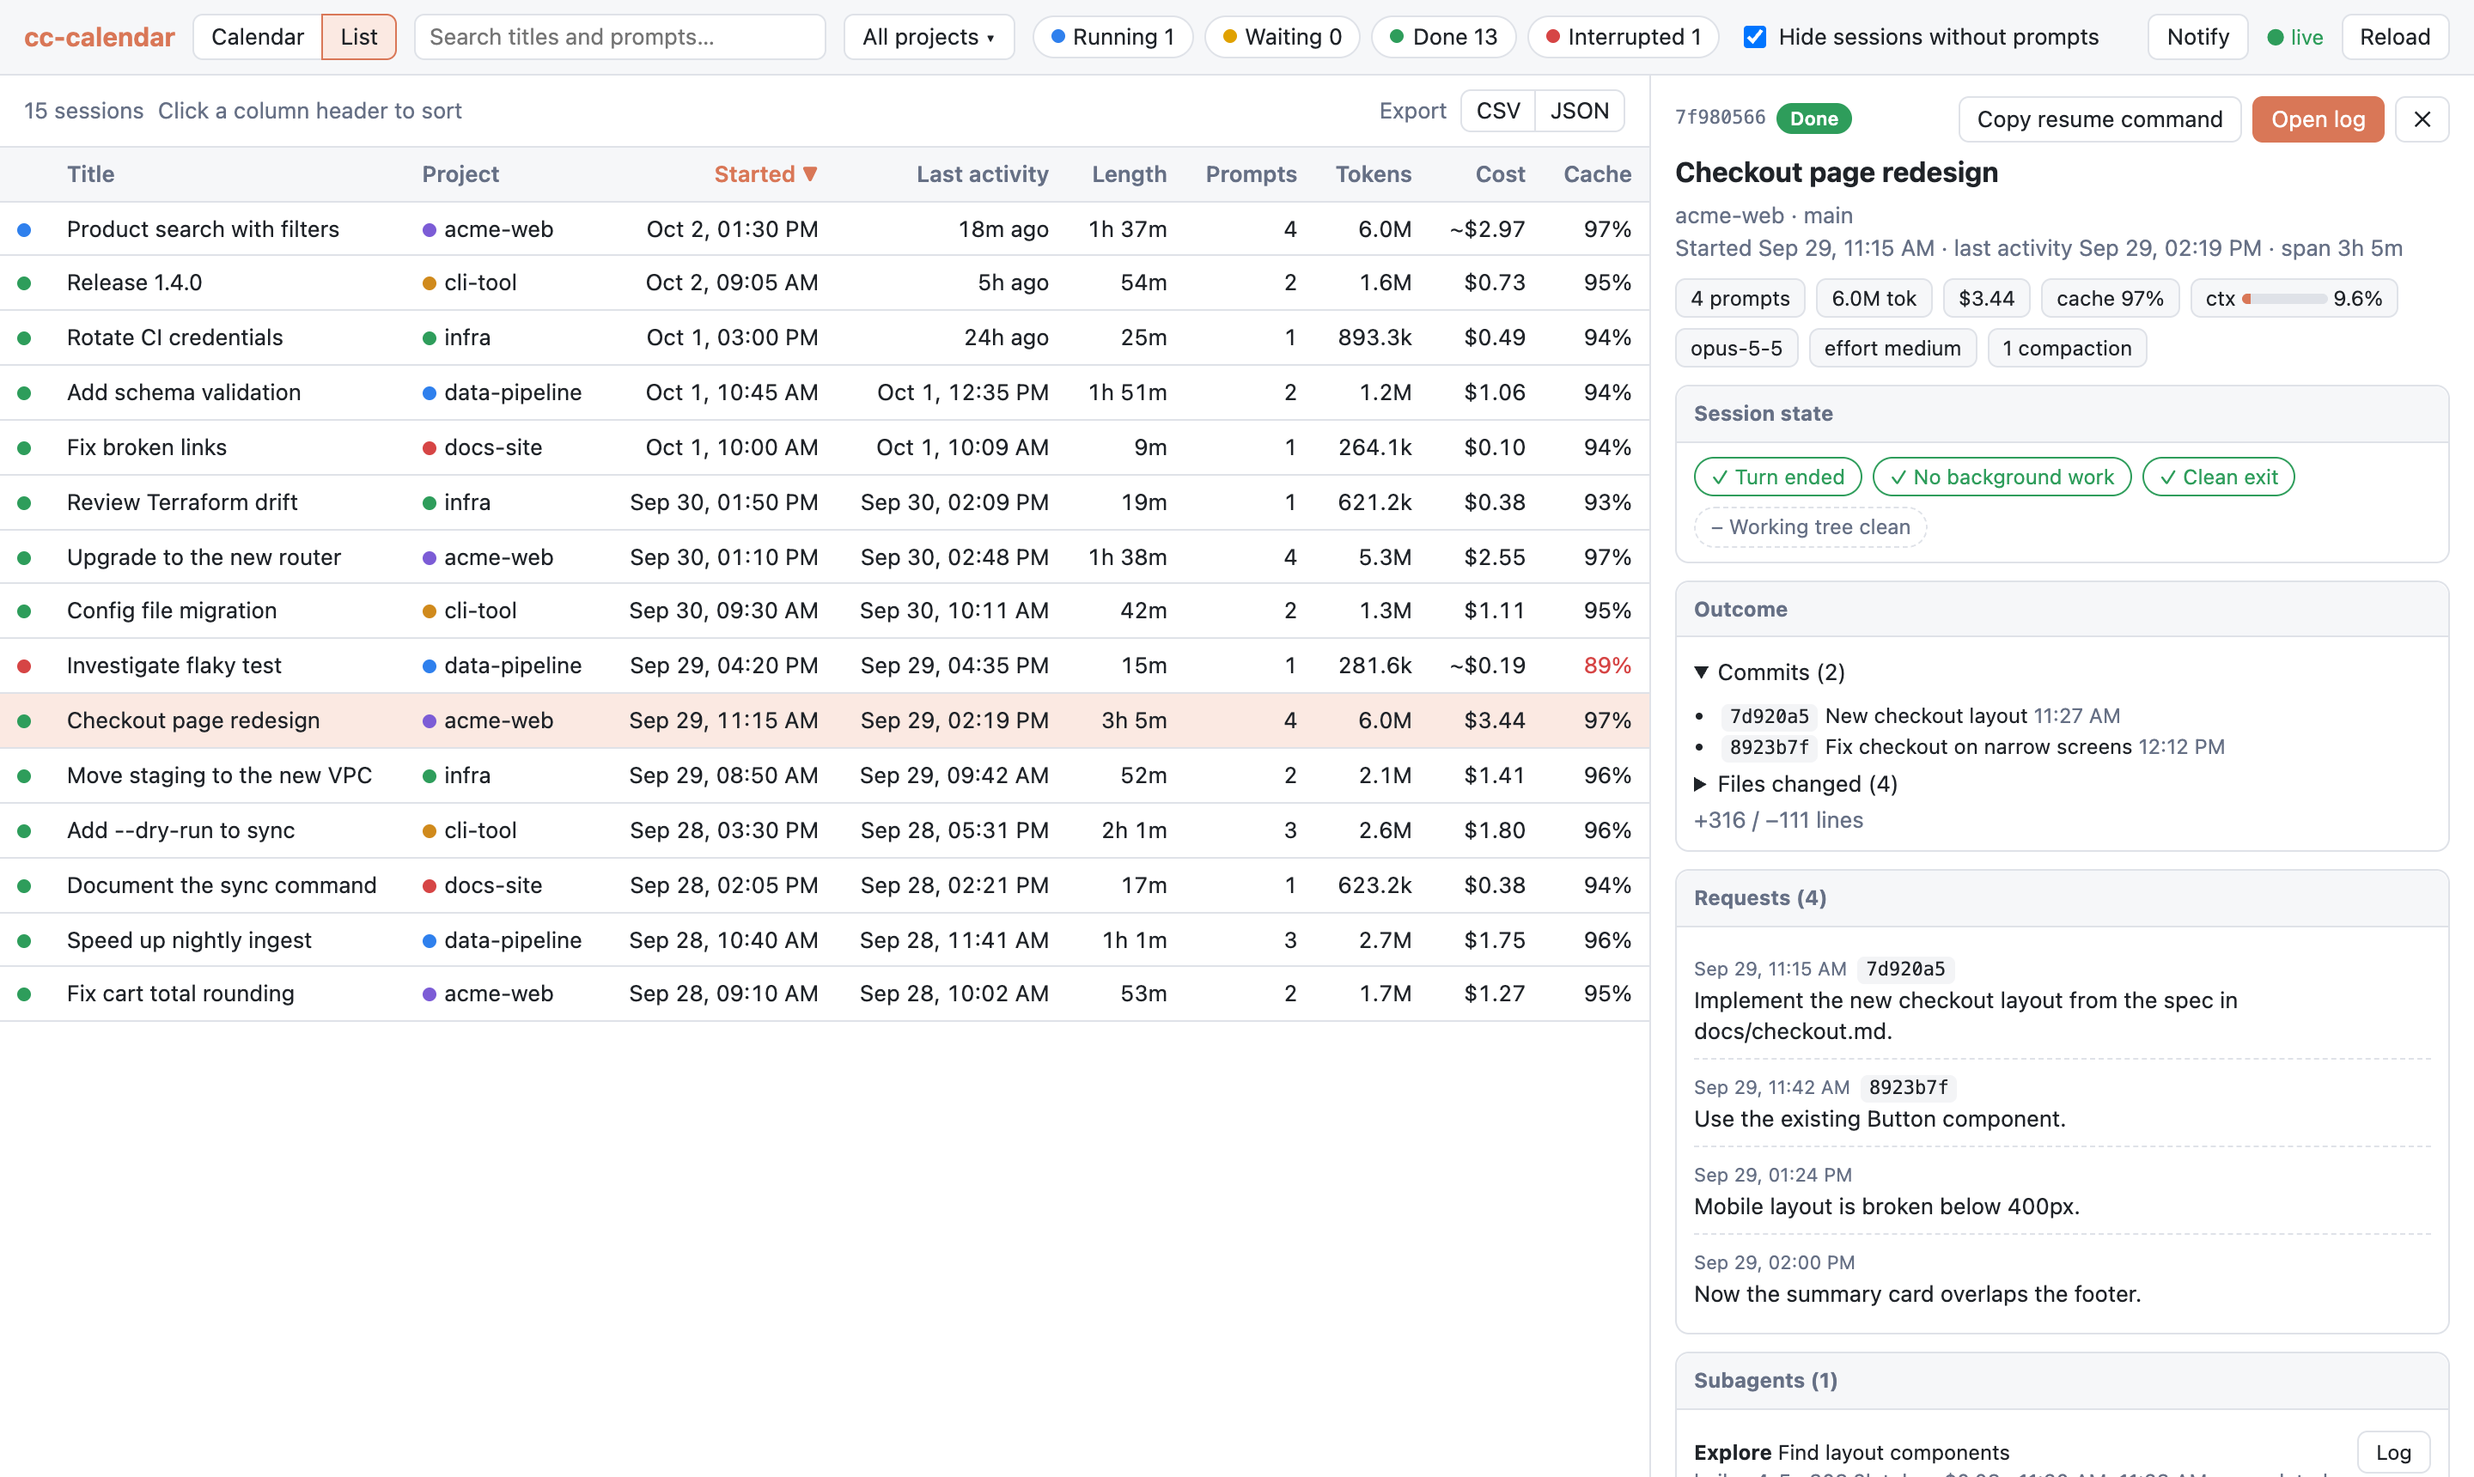
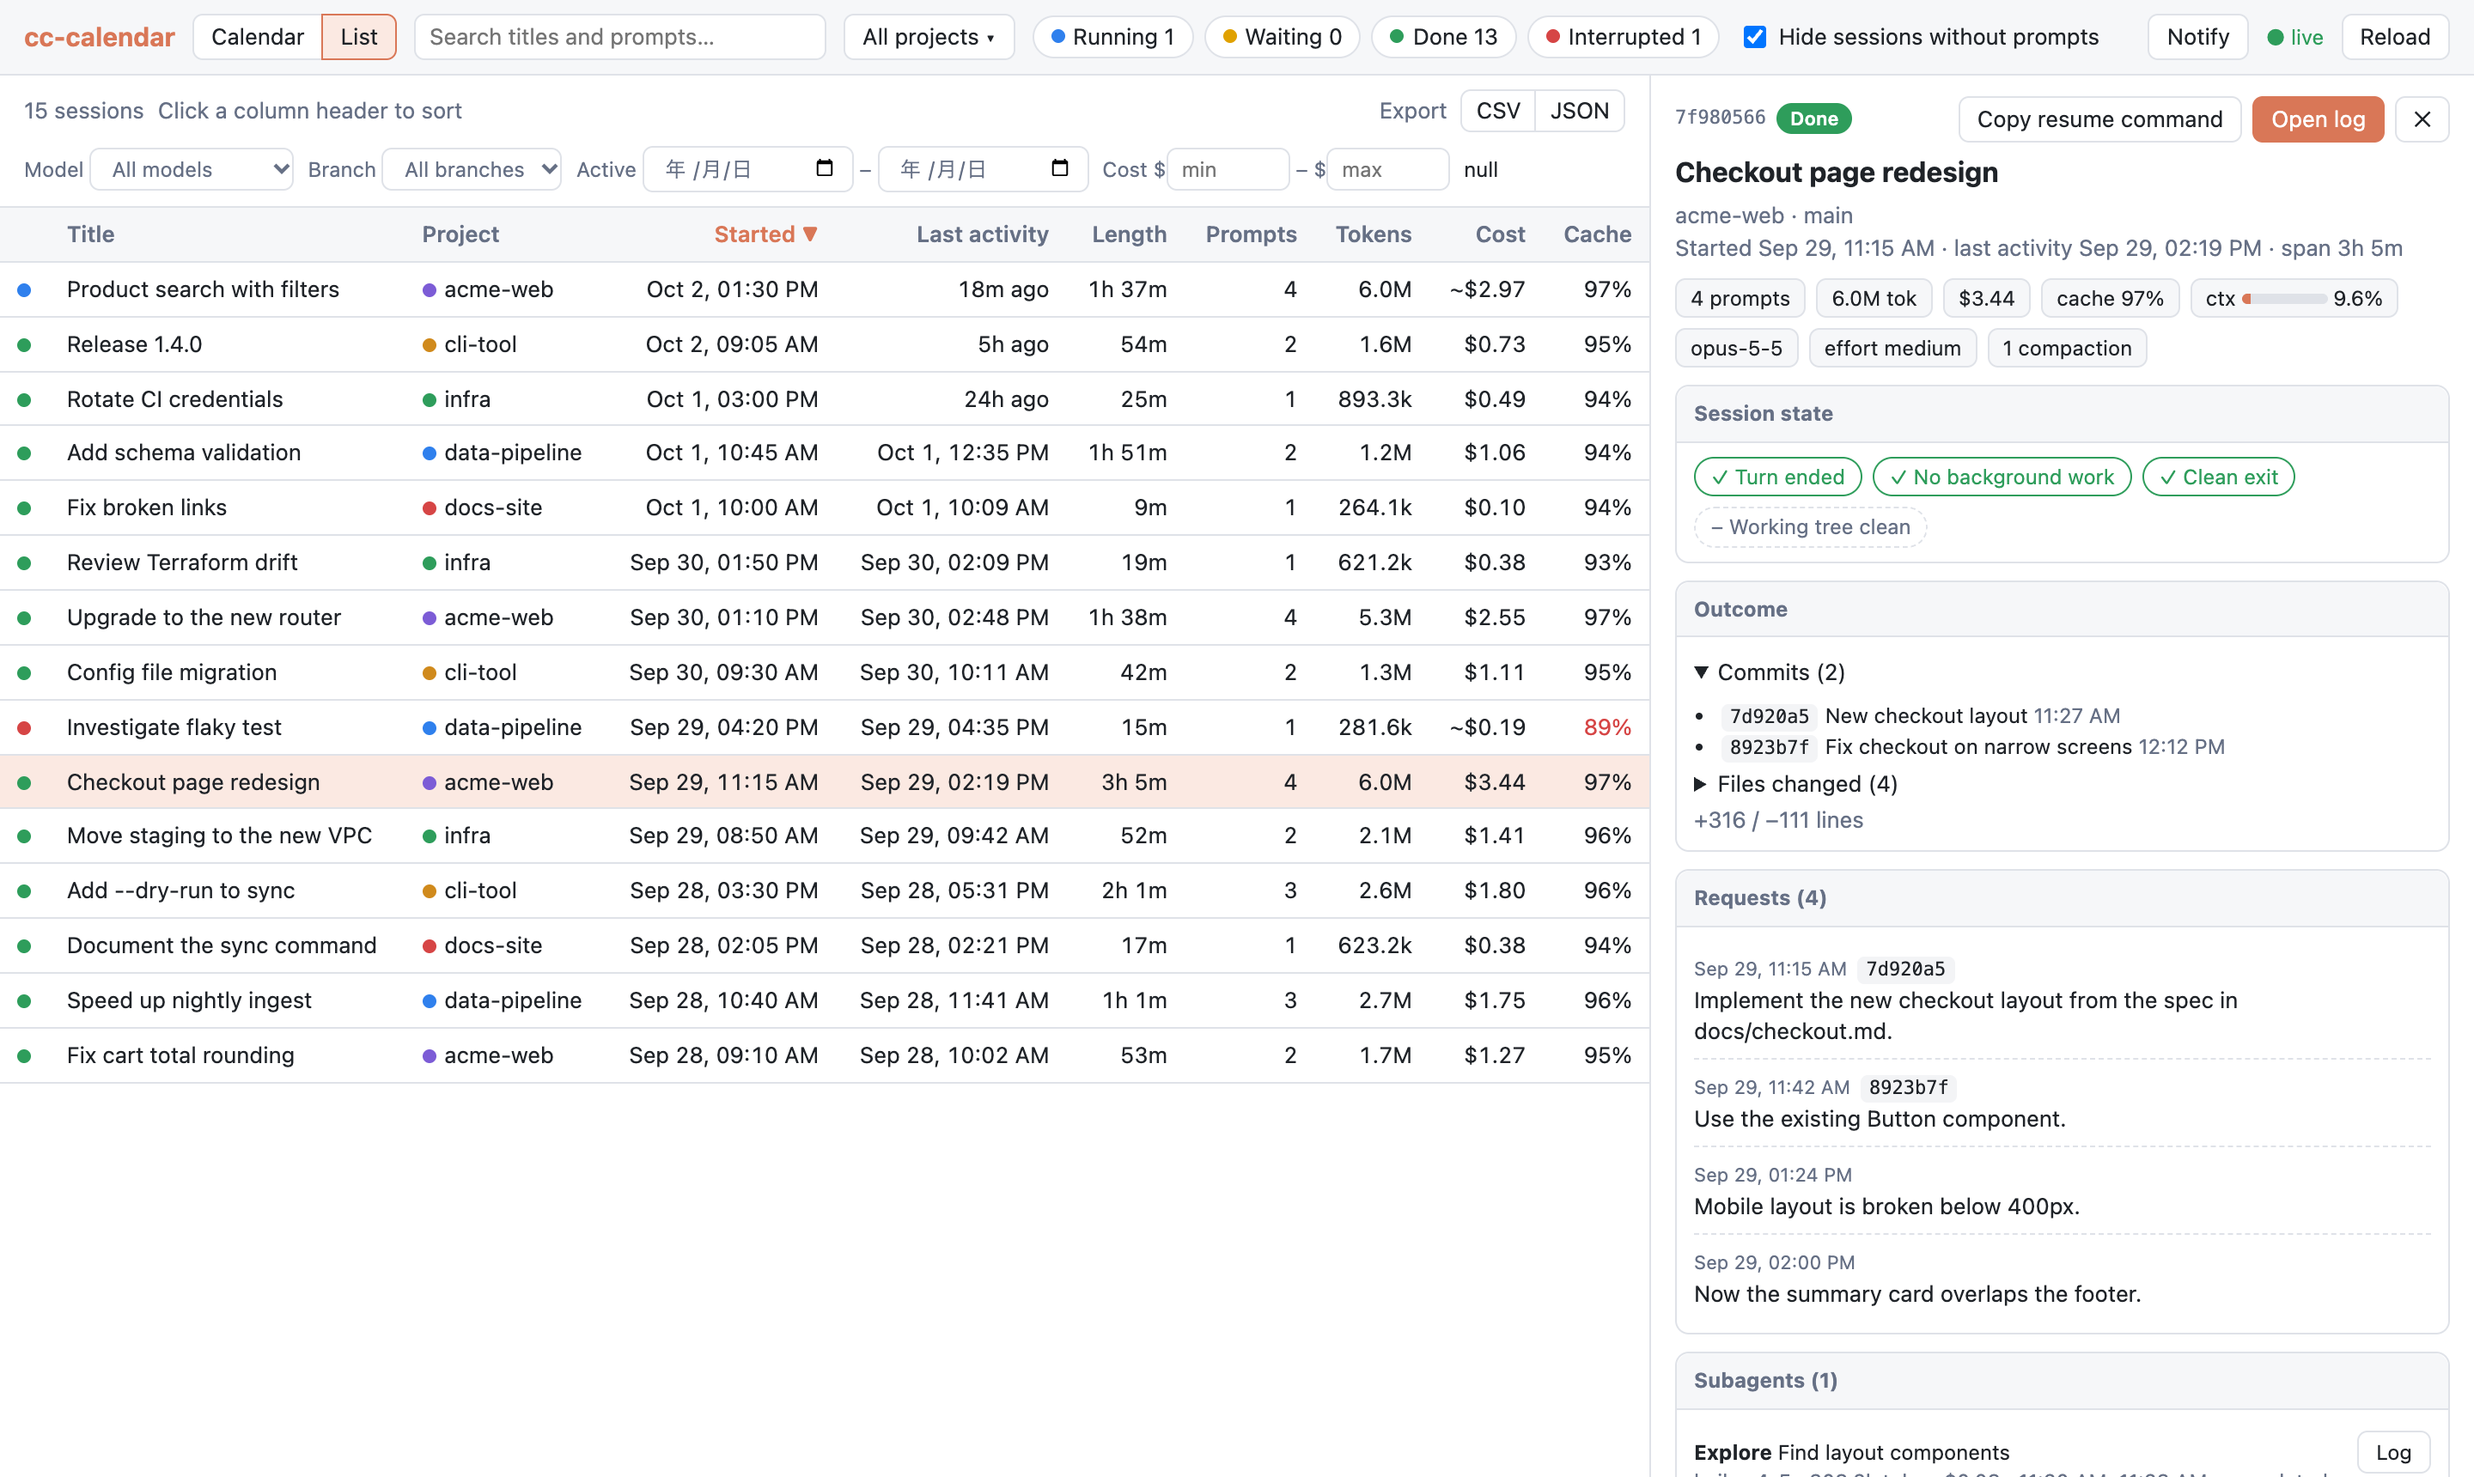
Add model, branch, date and cost filters to the list view
The list view gets a row of filters under its toolbar: model and branch
selects with session counts, an active date range, and a cost range.
They apply on top of the shared filters, are saved across reloads, and
also limit the CSV/JSON export. The count reads "X of Y sessions" while
any is set, and a Clear button resets them.

Closes #15

Changed region(s): [[0.0, 0.0924, 0.6875, 0.7395]]

diff --git a/src/cc_calendar/static/listfilter.js b/src/cc_calendar/static/listfilter.js
@@ -1,0 +1,66 @@
+// Extra filters of the list view: model, branch, date range and cost range.
+import { h, shortModel } from "./util.js";
+
+export const EMPTY_FILTER = { model: "", branch: "", from: "", to: "", costMin: "", costMax: "" };
+
+// Local midnight at the start of a "YYYY-MM-DD" date input value, plus `days`, in ms.
+function midnight(value, days = 0) {
+  const [y, m, d] = value.split("-").map(Number);
+  return new Date(y, m - 1, d + days).getTime();
+}
+
+// True when the session passes every filter that is set. Dates match sessions active on any
+// day from `from` to `to` (both inclusive); costs are in USD.
+export function matchesListFilter(s, f) {
+  if (f.model && s.model !== f.model) return false;
+  if (f.branch && s.branch !== f.branch) return false;
+  if (f.from && (s.end == null || s.end < midnight(f.from))) return false;
+  if (f.to && (s.start == null || s.start >= midnight(f.to, 1))) return false;
+  if (f.costMin !== "" && !((s.cost || 0) >= Number(f.costMin))) return false;
+  if (f.costMax !== "" && !((s.cost || 0) <= Number(f.costMax))) return false;
+  return true;
+}
+
+export function activeFilterCount(f) {
+  return Object.keys(EMPTY_FILTER).filter((k) => f[k] !== "").length;
+}
+
+// Values of `key` among the sessions, most common first; the selected one is kept even if absent.
+function options(sessions, key, selected) {
+  const counts = new Map();
+  for (const s of sessions) if (s[key]) counts.set(s[key], (counts.get(s[key]) || 0) + 1);
+  if (selected && !counts.has(selected)) counts.set(selected, 0);
+  return [...counts.entries()].sort((a, b) => b[1] - a[1] || a[0].localeCompare(b[0]));
+}
+
+// Renders the filter controls; `sessions` supply the model and branch choices.
+// `onChange(changes)` merges into the current filter, so a control rendered earlier stays correct.
+export function renderListFilters(container, sessions, f, onChange) {
+  const set = (key) => (e) => onChange({ [key]: e.target.value });
+  const select = (key, label, all, fmt) => h("label", { class: "muted" }, label + " ",
+    h("select", { "data-key": key, onchange: set(key) },
+      h("option", { value: "" }, all),
+      ...options(sessions, key, f[key]).map(([v, n]) =>
+        h("option", { value: v, selected: v === f[key] }, `${fmt(v)} (${n})`))));
+  const input = (key, attrs) => h("input", { ...attrs, "data-key": key, value: f[key], onchange: set(key) });
+  const n = activeFilterCount(f);
+  // Re-rendering must not take the caret away or drop a value still being typed.
+  const focused = container.contains(document.activeElement) ? document.activeElement : null;
+  const draft = focused?.tagName === "INPUT" ? focused.value : null;
+  container.replaceChildren(
+    select("model", "Model", "All models", shortModel),
+    select("branch", "Branch", "All branches", (v) => v),
+    h("label", { class: "muted", title: "Sessions active on any day in this range" }, "Active ",
+      input("from", { type: "date", "aria-label": "From date", max: f.to || null }), " – ",
+      input("to", { type: "date", "aria-label": "To date", min: f.from || null })),
+    h("label", { class: "muted", title: "Session cost in USD" }, "Cost $",
+      input("costMin", { type: "number", min: 0, step: "any", placeholder: "min", "aria-label": "Minimum cost" }), " – $",
+      input("costMax", { type: "number", min: 0, step: "any", placeholder: "max", "aria-label": "Maximum cost" })),
+    n ? h("button", { onclick: () => onChange({ ...EMPTY_FILTER }) }, `Clear ${n} filter${n > 1 ? "s" : ""}`) : null,
+  );
+  const again = focused?.dataset.key && container.querySelector(`[data-key="${focused.dataset.key}"]`);
+  if (again) {
+    if (draft !== null) again.value = draft;
+    again.focus();
+  }
+}

diff --git a/src/cc_calendar/static/app.js b/src/cc_calendar/static/app.js
@@ -2,6 +2,7 @@
 import { renderCalendar } from "./calendar.js";
 import { renderDetail } from "./detail.js";
 import { exportSessions } from "./export.js";
+import { EMPTY_FILTER, activeFilterCount, matchesListFilter, renderListFilters } from "./listfilter.js";
 import { bindNotifyToggle, checkTransitions } from "./notify.js";
 import { overviewRange, renderOverview } from "./overview.js";
 import { renderProject } from "./project.js";
@@ -33,6 +34,7 @@ export const state = {
   statuses: new Set(prefs.get("statuses", Object.keys(STATUS_LABELS))),
   hideNoPrompt: prefs.get("hideNoPrompt", true),
   sort: prefs.get("listSort", { key: "start", dir: "desc" }),
+  listFilter: { ...EMPTY_FILTER, ...prefs.get("listFilter", {}) }, // list view only
   showSummary: prefs.get("summary", false),
   showTools: prefs.get("tools", false),
   appVersion: null, // cc-calendar version reported by the server
@@ -351,9 +353,24 @@ function setSort(key) {
   renderMain();
 }
 
+// The list view's rows: the shared filters, then the list-only ones, in the chosen order.
+function listRows(visible) {
+  return sortRows(visible.filter((s) => matchesListFilter(s, state.listFilter)));
+}
+
+function setListFilter(changes) {
+  state.listFilter = { ...state.listFilter, ...changes };
+  prefs.set("listFilter", state.listFilter);
+  // "change" fires before Tab moves focus; render after the move so focus lands on the next control.
+  setTimeout(renderMain, 0);
+}
+
 function renderList(visible) {
-  const rows = sortRows(visible);
-  $("list-count").textContent = `${rows.length} sessions`;
+  const rows = listRows(visible);
+  renderListFilters($("list-filters"), visible, state.listFilter, setListFilter);
+  $("list-count").textContent = activeFilterCount(state.listFilter)
+    ? `${rows.length} of ${visible.length} sessions`
+    : `${rows.length} sessions`;
   if (!rows.length) {
     $("list").replaceChildren(h("div", { class: "empty" }, "No sessions match the filters."));
     return;
@@ -483,7 +500,7 @@ function bind() {
     btn.timer = setTimeout(() => { btn.textContent = "Copy report"; }, 1500);
   };
   for (const btn of document.querySelectorAll("#export button")) {
-    btn.onclick = () => exportSessions(sortRows(filtered()), btn.dataset.format, state.appVersion);
+    btn.onclick = () => exportSessions(listRows(filtered()), btn.dataset.format, state.appVersion);
   }
   $("zoom-in").onclick = () => setHourPx(state.hourPx * 1.25);
   $("zoom-out").onclick = () => setHourPx(state.hourPx / 1.25);

diff --git a/src/cc_calendar/static/style.css b/src/cc_calendar/static/style.css
@@ -58,7 +58,7 @@ button {
 }
 button:hover { background: var(--bg-hover); }
 button.active { background: var(--accent-soft); border-color: var(--accent); }
-select, input[type="search"] {
+select, input[type="search"], input[type="date"], input[type="number"] {
   background: var(--bg);
   border: 1px solid var(--border);
   border-radius: 6px;
@@ -199,6 +199,8 @@ a { color: var(--accent); }
 .dropdown-menu .open-project { margin-left: auto; padding: 0 6px; font-size: 11px; }
 
 /* ---------------------------------------------------------------- list */
+.list-filters { padding-top: 0; font-size: 12px; }
+.list-filters input[type="number"] { width: 72px; }
 .list { flex: 1; overflow: auto; border-top: 1px solid var(--border); }
 .list table { width: 100%; border-collapse: collapse; }
 .list th, .list td { padding: 6px 10px; border-bottom: 1px solid var(--border); text-align: left; vertical-align: top; }

diff --git a/src/cc_calendar/static/index.html b/src/cc_calendar/static/index.html
@@ -87,6 +87,7 @@
             <button data-format="json">JSON</button>
           </div>
         </div>
+        <div class="toolbar list-filters" id="list-filters"></div>
         <div class="list" id="list"></div>
       </div>
       <div id="project-view" hidden></div>

diff --git a/README.md b/README.md
@@ -81,7 +81,8 @@ The server binds to `127.0.0.1` on a free port and opens your browser.
   metadata, drill-down into subagent transcripts, and a stats panel per transcript (active time,
   requests, tokens and cost by model, tool calls and errors by tool).
 - **List view** with search over titles and prompts (a match inside a prompt is shown under the title), project and status filters, and sorting by
-  any column (click a header; click again to reverse).
+  any column (click a header; click again to reverse). List-only filters narrow it down further
+  by model, git branch, date range (sessions active on any day in the range) and cost range.
 - **Project page** — click a project name (in the list, the Summary table, the detail pane or the
   project menu) to see the project over all time: total active time and cost, activity by month,
   every session, and its commit history with links to the repository.

diff --git a/docs/features.md b/docs/features.md
@@ -97,6 +97,9 @@
 - **List view**:
     - Search over titles and prompts.
     - Filter by project and status.
+    - Narrow the list further by model, git branch, date range and cost range. The date range
+      keeps sessions that were active on any day in it. These filters apply to the list only;
+      **Clear** resets them.
     - Sort by any column.
 - **Project page**: click a project name to open it. Project names can be clicked in the list,
   the Summary table, the detail pane, and the project menu (**Page**). The page covers all time
